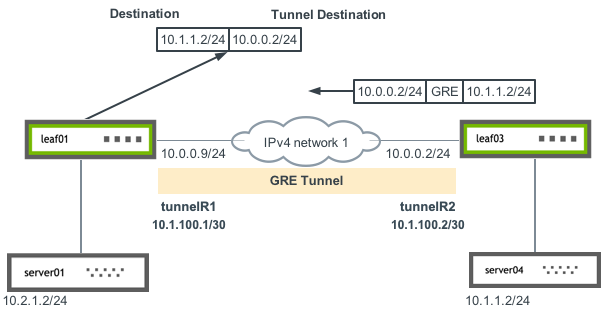
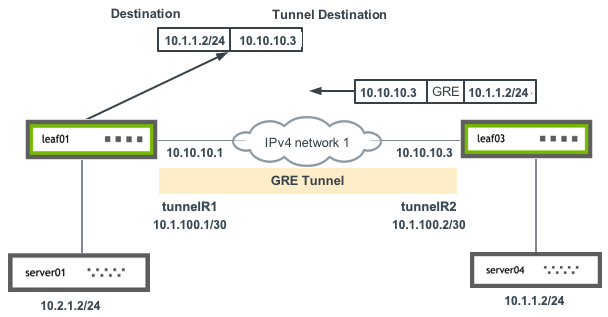
updated ips

diff --git a/content/cumulus-linux-51/Layer-3/GRE-Tunneling.md b/content/cumulus-linux-51/Layer-3/GRE-Tunneling.md
@@ -31,7 +31,7 @@ To configure GRE tunneling, you create a GRE tunnel interface with routes for tu
 - Assign an IP address to the tunnel interface.
 - Add route entries to encapsulate the packets using the tunnel interface.
 
-The following configuration example shows the commands used to set up a bidirectional GRE tunnel between two endpoints: `tunnelR1` and `tunnelR2`. The local tunnel endpoint for `tunnelR1` is 10.0.0.9 and the remote endpoint is 10.0.0.2. The local tunnel endpoint for `tunnelR2` is 10.0.0.2 and the remote endpoint is 10.0.0.9.
+The following configuration example shows the commands used to set up a bidirectional GRE tunnel between two endpoints: `tunnelR1` and `tunnelR2`. The local tunnel endpoint for `tunnelR1` is 10.10.10.1 and the remote endpoint is 10.10.10.3. The local tunnel endpoint for `tunnelR2` is 10.10.10.3 and the remote endpoint is 10.10.10.1.
 
 {{< img src = "/images/cumulus-linux/gre-tunnel-config1.png" >}}
 
@@ -46,11 +46,11 @@ In NVUE, if you create a the GRE interface with a name that starts with `tunnel`
 {{< tab "leaf01 ">}}
 
 ```
-cumulus@leaf01:~$ nv set interface swp1 ip address 10.0.0.9/24
+cumulus@leaf01:~$ nv set interface swp1 ip address 10.2.1.1/24
 cumulus@leaf01:~$ nv set interface tunnelR2 ip address 10.1.100.1/30
 cumulus@leaf01:~$ nv set interface tunnelR2 tunnel mode gre
-cumulus@leaf01:~$ nv set interface tunnelR2 tunnel dest-ip 10.0.0.2
-cumulus@leaf01:~$ nv set interface tunnelR2 tunnel source-ip 10.0.0.9
+cumulus@leaf01:~$ nv set interface tunnelR2 tunnel dest-ip 10.10.10.3
+cumulus@leaf01:~$ nv set interface tunnelR2 tunnel source-ip 10.10.10.1
 cumulus@leaf01:~$ nv set interface tunnelR2 tunnel ttl 255
 cumulus@leaf01:~$ nv set vrf default router static 10.1.1.0/24 via tunnelR2
 cumulus@leaf01:~$ nv config apply
@@ -60,12 +60,12 @@ cumulus@leaf01:~$ nv config apply
 {{< tab "leaf03 ">}}
 
 ```
-cumulus@leaf03:~$ nv set interface swp1 ip address 10.0.0.2/24
-cumulus@leaf03:~$ nv set interface tunnelR2 ip address 10.1.100.2/30
-cumulus@leaf03:~$ nv set interface tunnelR2 tunnel mode gre
-cumulus@leaf03:~$ nv set interface tunnelR2 tunnel dest-ip 10.0.0.9
-cumulus@leaf03:~$ nv set interface tunnelR2 tunnel source-ip 10.0.0.2
-cumulus@leaf03:~$ nv set interface tunnelR2 tunnel ttl 255
+cumulus@leaf03:~$ nv set interface swp1 ip address 10.1.1.1/24
+cumulus@leaf03:~$ nv set interface tunnelR1 ip address 10.1.100.2/30
+cumulus@leaf03:~$ nv set interface tunnelR1 tunnel mode gre
+cumulus@leaf03:~$ nv set interface tunnelR1 tunnel dest-ip 10.10.10.1
+cumulus@leaf03:~$ nv set interface tunnelR1 tunnel source-ip 10.10.10.3
+cumulus@leaf03:~$ nv set interface tunnelR1 tunnel ttl 255
 cumulus@leaf03:~$ nv set vrf default router static 10.2.1.0/24 via tunnelR1
 cumulus@leaf03:~$ nv config apply
 ```
@@ -86,30 +86,26 @@ cumulus@leaf03:~$ nv config apply
    ...
    auto lo
    iface lo inet loopback
-
    auto mgmt
    iface mgmt
-       address 127.0.0.1/8
-       address ::1/128
-       vrf-table auto
-
+      address 127.0.0.1/8
+      address ::1/128
+      vrf-table auto
    auto eth0
    iface eth0 inet dhcp
-       ip-forward off
-       ip6-forward off
-       vrf mgmt
-
+      ip-forward off
+      ip6-forward off
+      vrf mgmt
    auto swp1
    iface swp1
-       address 10.0.0.9/24
-
+      address 10.2.1.1/24
    auto tunnelR2
    iface tunnelR2
-       address 10.1.100.1/30
-       tunnel-mode gre
-       tunnel-local 10.0.0.9
-       tunnel-endpoint 10.0.0.2
-       tunnel-ttl 255
+      address 10.1.100.1/30
+      tunnel-mode gre
+      tunnel-local 10.10.10.1
+      tunnel-endpoint 10.10.10.3
+      tunnel-ttl 255
    ```
 
 2. Run the `ifreload -a` command to load the configuration.
@@ -148,29 +144,25 @@ cumulus@leaf03:~$ nv config apply
    ...
    auto lo
    iface lo inet loopback
-
    auto mgmt
    iface mgmt
-       address 127.0.0.1/8
-       address ::1/128
-       vrf-table auto
-
+      address 127.0.0.1/8
+      address ::1/128
+      vrf-table auto
    auto eth0
    iface eth0 inet dhcp
-       ip-forward off
-       ip6-forward off
-       vrf mgmt
-
+      ip-forward off
+      ip6-forward off
+      vrf mgmt
    auto swp1
    iface swp1
-      address 10.0.0.2/24
-
-   auto tunnelR2
-   iface tunnelR2
+       address 10.1.1.1/24
+   auto tunnelR1
+   iface tunnelR1
        address 10.1.100.2/30
        tunnel-mode gre
-       tunnel-local 10.0.0.2
-       tunnel-endpoint 10.0.0.9
+       tunnel-local 10.10.10.3
+       tunnel-endpoint 10.10.10.1
        tunnel-ttl 255
    ```
 
@@ -215,28 +207,28 @@ To delete a GRE tunnel, remove the tunnel interface, and remove the routes confi
 To check GRE tunnel settings, run the NVUE `nv show interface <interface> tunnel` command, or run the Linux `ip tunnel show` or `ifquery --check` command. For example:
 
 ```
-cumulus@leaf03:mgmt:~$ nv show interface tunnelR2 tunnel
-           operational  applied   description
----------  -----------  --------  -------------------------------
-dest-ip    10.0.0.9     10.0.0.9  Destination underlay IP address
-mode       gre          gre       tunnel mode
-source-ip  10.0.0.2     10.0.0.2  Source underlay IP address
-ttl                     255       time to live
+cumulus@leaf01:mgmt:~$ nv show interface tunnelR2 tunnel
+           operational  applied     description
+---------  -----------  ----------  -------------------------------
+dest-ip    10.10.10.3   10.10.10.3  Destination underlay IP address
+mode       gre          gre         tunnel mode
+source-ip  10.10.10.1   10.10.10.1  Source underlay IP address
+ttl                     255         time to live
 ```
 
 ```
 cumulus@leaf01:mgmt:~$ ip tunnel show
 gre0: gre/ip remote any local any ttl inherit nopmtudisc
-tunnelR2: gre/ip remote 10.0.0.2 local 10.0.0.9 ttl 255
+tunnelR2: gre/ip remote 10.10.10.3 local 10.10.10.1 ttl 255
 ```
 
 ```
 cumulus@leaf01:mgmt:~$ ifquery --check tunnelR2
 auto tunnelR2
-iface tunnelR2                                                 [pass]
-   tunnel-mode gre                                             [pass]
-   tunnel-local 10.0.0.9/32                                    [pass]
-   tunnel-endpoint 10.0.0.2/32                                 [pass]
-   tunnel-ttl 255                                              [pass]
-   address 10.1.100.1/30                                       [pass]
+iface tunnelR2                                                      [pass]
+        tunnel-mode gre                                             [pass]
+        tunnel-local 10.10.10.1/32                                  [pass]
+        tunnel-endpoint 10.10.10.3/32                               [pass]
+        tunnel-ttl 255                                              [pass]
+        address 10.1.100.1/30                                       [pass]
 ```
